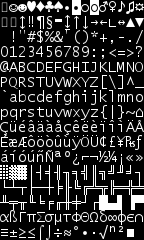
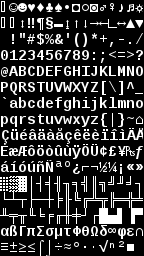
.

diff --git a/misc/genfont.py b/misc/genfont.py
@@ -4,15 +4,24 @@ import Image, ImageFont, ImageDraw, sys
 
 def main():
     #fontpath2 = 'c:\\Windows\\Fonts\\DroidSansMono.ttf'
-    fontpath2 = 'c:\\Windows\\Fonts\\DejaVuSansMono.ttf'
-    fontpath = 'c:\\Windows\\Fonts\\lucon.ttf'
-    fontpoint = 16
+    #fontpath2 = 'c:\\Windows\\Fonts\\DejaVuSansMono.ttf'
+    fontpathl = '../lucon.ttf'
+    fontpath = '../liberation-fonts-ttf-1.07.1/LiberationMono-Bold.ttf'
+    fontpaths = '../liberation-fonts-ttf-1.07.1/LiberationMono-Regular.ttf'
+    fontpointl = 15
+    fontpoint = 15
+    fontpoints = 11
 
     image = Image.new('RGB', (1,1))
     draw = ImageDraw.Draw(image)
+
     font = ImageFont.truetype(fontpath, fontpoint)
-    font2 = ImageFont.truetype(fontpath2, fontpoint)
-    w,h = draw.textsize(str('W'), font=font2)
+    fonts = ImageFont.truetype(fontpaths, fontpoints)
+    fontl = ImageFont.truetype(fontpathl, fontpointl)
+
+    w,h = draw.textsize('W', font=font)
+    # HACK for Liberation Mono
+    h -= 1
     print w,h
 
     image = image.resize((w*16, h*16))
@@ -53,16 +62,38 @@ def main():
     0x00b0, 0x2219, 0x00b7, 0x221a, 0x207f, 0x00b2, 0x25a0, 0x00a0
     ]
 
+    replacers = { 
+       ord('@'): ord(' '),
+       176: ord(' '),
+       250: ord(' ')
+    }
+
+    for k,v in replacers.iteritems():
+        cp437[k] = v
+
     chrs = [''.join(unichr(cp437[x+y*16]) for x in xrange(0,16)) for y in xrange(0,16)]
 
     y = 0
     ii = 0
+
     for c in chrs:
-        draw.text((0,y), c, font=(font if ii >= 2 and ii <= 7 else font))
+        imtmp = Image.new('RGB', (w*16,h+1))
+        drawtmp = ImageDraw.Draw(imtmp)
+        drawtmp.text((0,0), c, font=font)
+        imtmp = imtmp.crop((0,1,w*16-1,h+1))
+        image.paste(imtmp, (0,y))
+        #draw.text((0,y), c, font=(font if ii >= 2 and ii <= 7 else font))
         y += h
         ii += 1
 
-    image.save('tcod.png')
+    # HACK replace '@' with non-broken version.
+    draw.text((1, h*4+1), '@', font=fonts)
+
+    # HACK replace box character with non-ugly version.
+    draw.text((0, h*11+1), unichr(0x2591), font=fontl)
+    draw.text((10*w, h*15), unichr(0xB7), font=fonts)
+
+    image.save('font.png')
 
     print 'OK'
 
